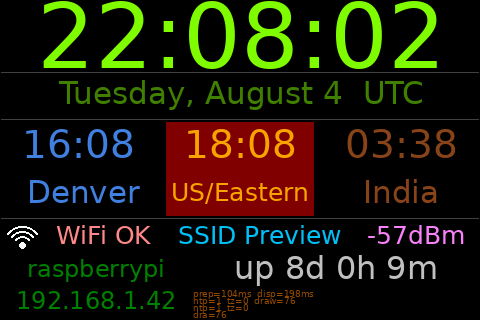
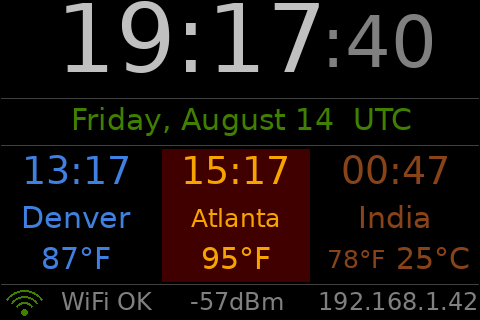
refine-landscape, url-fact (#35)
* refine landscape demo layout

* refine url-fact demo, showing how url-facts cannot be re-used even to show data we already have.  Might constitute a feature idea

* update TODO with url-fact ideas

diff --git a/TODO.md b/TODO.md
@@ -8,6 +8,9 @@ TODOs
 - add ability for user to change their display driver/profile without doing the entire installation again
 - add systemd unit during installer to disable console cursor blinking if using console framebuffer driver
   - see `misc/systemd/disable-cursor-blink.service` for a working example
+- url-fact are not re-usable.  For things like callouts to open-meteo.com for weather info, this is VERY
+  inefficient.  Might need to retrieve full data, on a background thread schedule, cache it, and then allow 
+  display configs to reference cached data and transform/render it as needed.
 
 ### Internal / developer improvements:
 - tighten up mypy type errors and warnings
